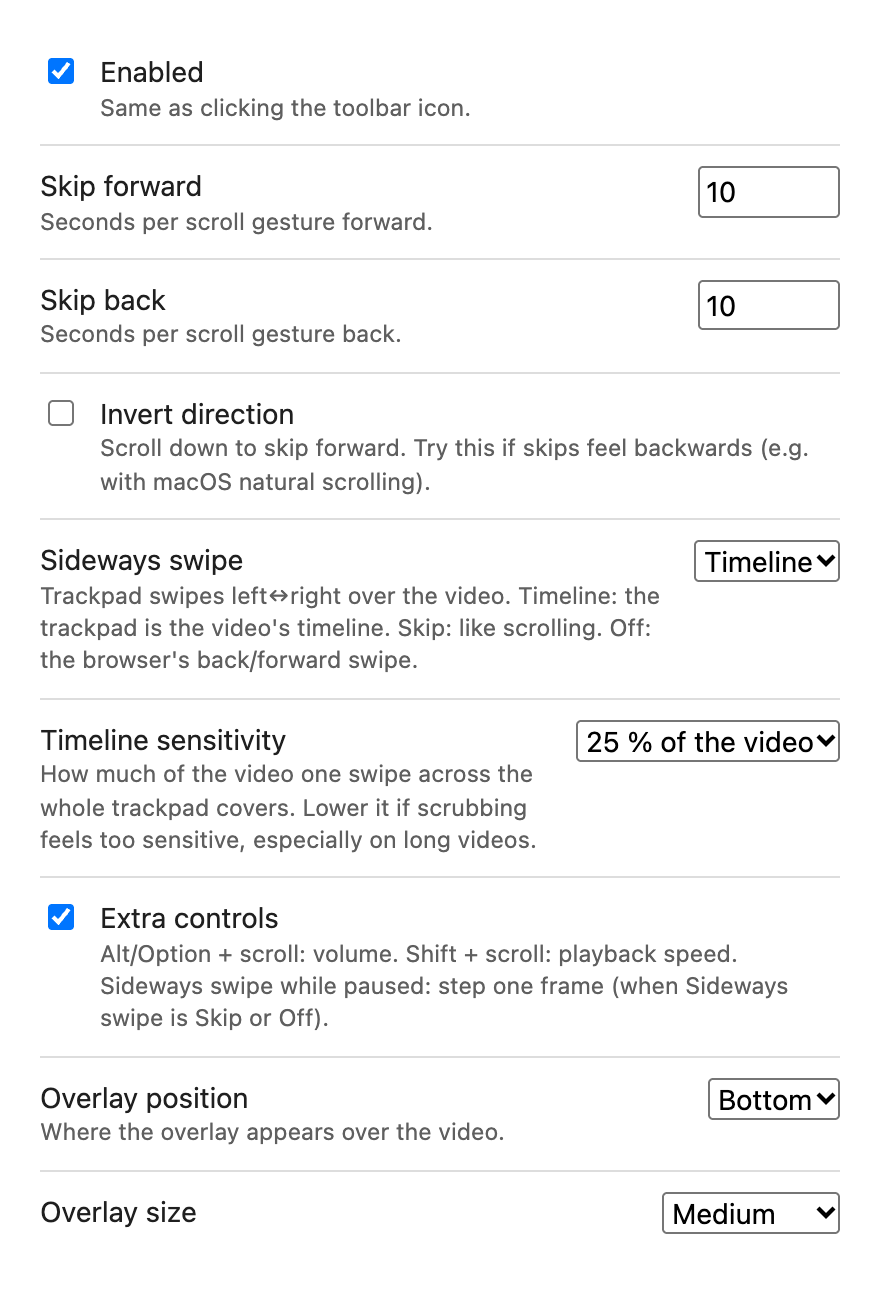
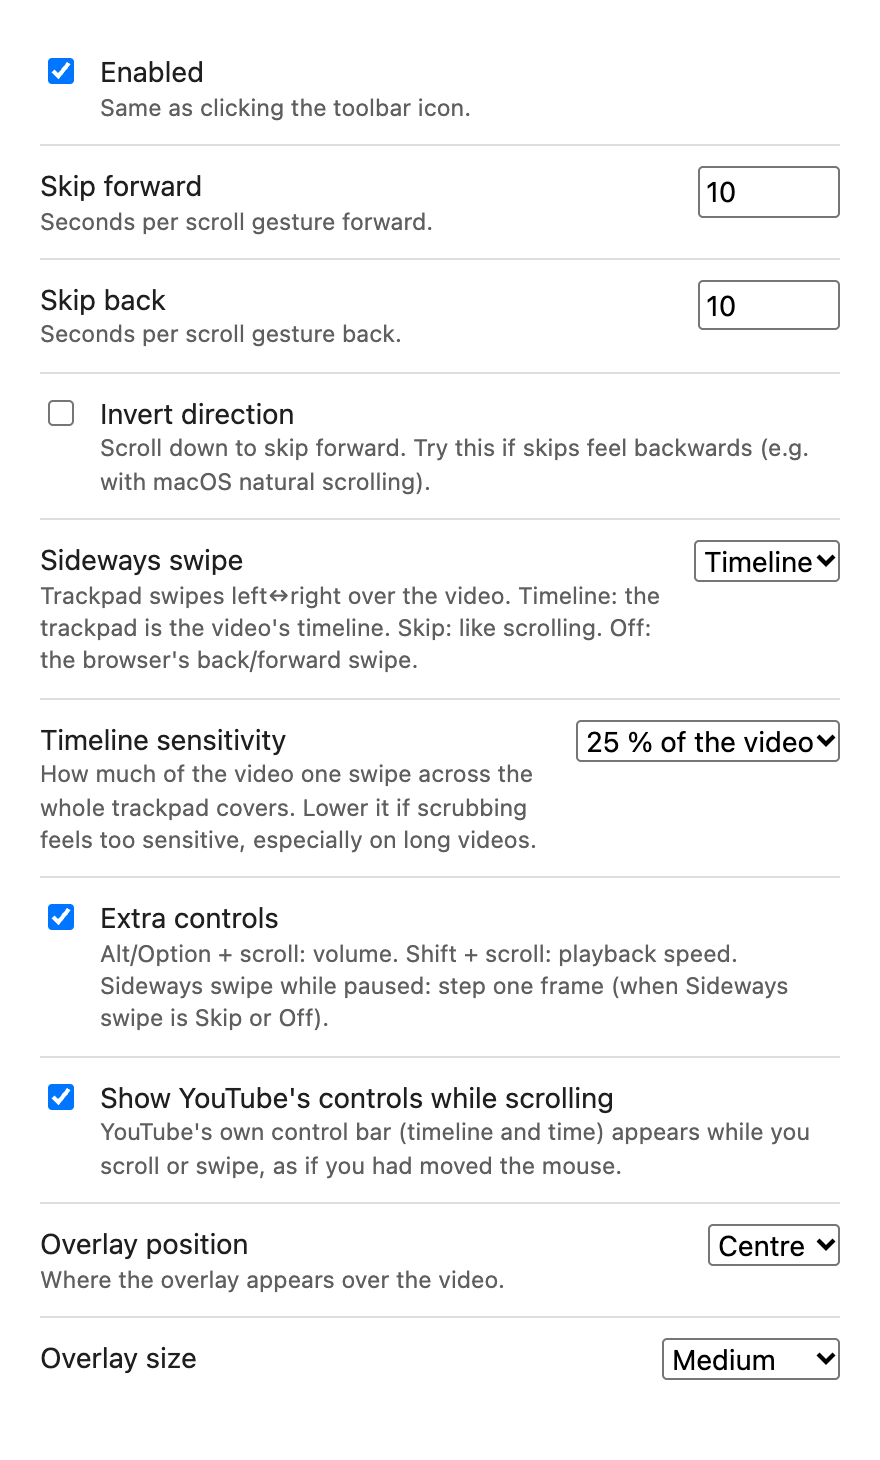
Show YouTube's own control bar while scrolling; centre the overlay
Every claimed wheel event wakes YouTube's controls with a synthetic
mousemove on the player (throttled to one per 250 ms). Verified on real
youtube.com: YouTube ignores a move to the position it last saw, so the
event alternates 1 px around the pointer; the fixture now mimics that.
New setting "Show YouTube's controls while scrolling" (showControls,
default on). The overlay defaults to the centre so it doesn't cover
YouTube's bar.

diff --git a/content.js b/content.js
@@ -28,6 +28,9 @@
   // little vertically. Two such flat events in a row of at least this size mean momentum.
   const MOMENTUM_MIN_PX = 10;
   const SEEK_INTERVAL_MS = 50; // at most one real seek per this while scrubbing
+  // YouTube shows its control bar on mousemove over the player and hides it a few seconds after
+  // the last one; wheel events don't count. Wake it at most this often while scrolling.
+  const WAKE_CONTROLS_MS = 250;
   const LINE_PX = 16; // deltaMode 1 (lines, e.g. Firefox mouse wheels)
   const PAGE_PX = 800; // deltaMode 2 (pages)
   // Overlay placement and scale, chosen on the options page.
@@ -65,6 +68,8 @@
   let seekTimer = null;
   let pendingSeek = null;
   let lastSeekAt = 0;
+  let lastWakeAt = 0;
+  let wakeNudge = 0;
   // Recent skips in one direction on one video, added up for the toast.
   let accumulated = { total: 0, direction: 0, at: 0, video: null, src: '' };
   let hideTimer = null;
@@ -87,6 +92,18 @@
     }
     if (target instanceof HTMLVideoElement) return { player: target.parentElement, video: target };
     return null;
+  }
+
+  // Show YouTube's own control bar (timeline, time) like a mouse move would. A synthetic
+  // mousemove reaches YouTube's listener from this isolated world, but YouTube ignores moves to
+  // the position it last saw (verified on youtube.com), so alternate 1 px around the pointer.
+  function wakeControls(player, x, y) {
+    if (!settings.showControls || !player) return;
+    const now = Date.now();
+    if (now - lastWakeAt < WAKE_CONTROLS_MS) return;
+    lastWakeAt = now;
+    wakeNudge = wakeNudge ? 0 : 1;
+    player.dispatchEvent(new MouseEvent('mousemove', { bubbles: true, clientX: x + wakeNudge, clientY: y }));
   }
 
   function isAdShowing(player) {
@@ -410,6 +427,7 @@
     // act, so the page never scrolls underneath.
     e.preventDefault();
     e.stopPropagation();
+    wakeControls(player, e.clientX, e.clientY);
     lastInterval = gap;
     lastWheel = now;
     if (fresh) {

diff --git a/test/fixture.html b/test/fixture.html
@@ -60,6 +60,16 @@
           'getAvailablePlaybackRates', 'setPlaybackRate']) delete player[k];
       };
     })();
+    // Like YouTube, which shows its control bar on mousemove over the player but ignores a move to
+    // the position it last saw (verified on youtube.com): count the synthetic moves that would
+    // wake the controls.
+    window.controlWakes = 0;
+    let lastMove = null;
+    document.getElementById('movie_player').addEventListener('mousemove', (e) => {
+      const moved = !lastMove || lastMove[0] !== e.clientX || lastMove[1] !== e.clientY;
+      lastMove = [e.clientX, e.clientY];
+      if (!e.isTrusted && moved) controlWakes++;
+    });
     // Record whether each wheel event ended up cancelled (read after dispatch finishes).
     window.wheelLog = [];
     window.addEventListener('wheel', (e) => setTimeout(() => wheelLog.push(e.defaultPrevented)), { capture: true });

diff --git a/options.html b/options.html
@@ -56,10 +56,14 @@
     <span>Extra controls<small>Alt/Option + scroll: volume. Shift + scroll: playback speed. Sideways swipe while paused: step one frame (when Sideways swipe is Skip or Off).</small></span>
   </label>
   <label>
+    <input type="checkbox" id="showControls">
+    <span>Show YouTube's controls while scrolling<small>YouTube's own control bar (timeline and time) appears while you scroll or swipe, as if you had moved the mouse.</small></span>
+  </label>
+  <label>
     <span>Overlay position<small>Where the overlay appears over the video.</small></span>
     <select id="toastPosition">
-      <option value="bottom">Bottom</option>
       <option value="center">Centre</option>
+      <option value="bottom">Bottom</option>
       <option value="top">Top</option>
     </select>
   </label>

diff --git a/defaults.js b/defaults.js
@@ -10,6 +10,7 @@ const YSS_DEFAULTS = Object.freeze({
   horizontalSwipe: 'timeline',
   timelineSpan: '25', // percent of the video one full trackpad swipe covers: '100' | '75' | '50' | '25' | '10'
   modifierControls: true, // Alt+scroll = volume, Shift+scroll = speed, sideways swipe while paused = frame step
-  toastPosition: 'bottom', // 'bottom' | 'center' | 'top'
-  toastSize: 'medium', // 'x-small' | 'small' | 'medium' | 'large' | 'x-large'
+  toastPosition: 'center', // 'center' | 'bottom' | 'top' (centre keeps it clear of YouTube's control bar)
+  toastSize: 'medium',
+  showControls: true, // wake YouTube's own control bar (timeline) on every scroll or swipe // 'x-small' | 'small' | 'medium' | 'large' | 'x-large'
 });

diff --git a/README.md b/README.md
@@ -8,7 +8,7 @@ A small browser extension that lets you skip forward or backward in a YouTube vi
 
 (Both lengths can be set separately.)
 
-A small panel over the player confirms each skip: how far the video actually moved in large type (`+10 s`), where you landed (`4:32 / 12:05`), and a thin progress bar. Quick repeated skips on the same video add up (`+30 s`). Near the end or start it shows the real, shorter jump, or `End` / `Start` when there's nowhere left to go. It's a translucent grey panel with a thin light border and system fonts, with no icons. Its position and size can be changed in the settings.
+A small panel over the player confirms each skip: how far the video actually moved in large type (`+10 s`), where you landed (`4:32 / 12:05`), and a thin progress bar. Quick repeated skips on the same video add up (`+30 s`). Near the end or start it shows the real, shorter jump, or `End` / `Start` when there's nowhere left to go. It's a translucent grey panel with a thin light border and system fonts, with no icons. It sits in the centre of the player by default, and its position and size can be changed in the settings. YouTube's own control bar (red timeline and time) appears at the same time, as if you had moved the mouse.
 
 ![The toast over the player after two quick forward skips: "+20 s", with "0:52 / 2:00" below](docs/toast.png)
 
@@ -34,6 +34,7 @@ A small panel over the player confirms each skip: how far the video actually mov
   - Hover previews in the feed are ignored.
   - Outside the video, two-finger back/forward swipes still navigate (or everywhere, with "Sideways swipe" set to Off).
   - Forward skips stop just before the end, so they don't trigger autoplay of the next video.
+- **YouTube's own timeline**: every scroll or swipe also wakes YouTube's control bar, so you see its timeline too (can be turned off).
 - **Accessible**: the toast is announced to screen readers (`role="status"`).
 - **Private**: the only permission is `storage` (to save your settings). No tracking and no network requests.
 
@@ -68,7 +69,8 @@ Right-click the toolbar icon → **Options** (or use the **Details → Extension
 | Sideways swipe   | Timeline | Timeline: the trackpad is the video's timeline. Skip: like scrolling. Off: the browser's back/forward swipe |
 | Timeline sensitivity | 25 % | How much of the video one swipe across the whole trackpad covers: 100 %, 75 %, 50 %, 25 % or 10 %. Lower = finer |
 | Extra controls   | on      | Alt+scroll volume, Shift+scroll speed, sideways swipe while paused for one frame |
-| Overlay position | Bottom  | Bottom, Centre or Top of the player                                  |
+| Show YouTube's controls while scrolling | on | YouTube's own control bar (timeline, time) appears while you scroll or swipe |
+| Overlay position | Centre  | Centre, Bottom or Top of the player (centre stays clear of YouTube's control bar) |
 | Overlay size     | Medium  | Extra small (0.65×), Small (0.8×), Medium, Large (1.3×) or Extra large (1.6×) |
 
 An invalid skip length (outside 1–600) is rejected and the previous value is kept. If you used 1.2.x, your old "seconds per skip" is carried over to both directions when the extension updates.

diff --git a/CLAUDE.md b/CLAUDE.md
@@ -34,8 +34,9 @@ permission is `storage`. No network, no build step for the extension itself.
   `document_idle`. The background has both `service_worker` (Chrome) and `scripts` (Firefox),
   which is deliberate. `browser_specific_settings.gecko` is for Firefox.
 - `defaults.js`: `YSS_DEFAULTS` (`enabled`, `skipForward`, `skipBack`, `invert`,
-  `horizontalSwipe`, `timelineSpan`, `modifierControls`, `toastPosition`, `toastSize`), shared
-  by `content.js` and `options.js`. Settings live in `chrome.storage.sync`. 1.2.x stored one
+  `horizontalSwipe`, `timelineSpan`, `modifierControls`, `toastPosition`, `toastSize`,
+  `showControls`), shared by `content.js` and `options.js`. Settings live in
+  `chrome.storage.sync`. 1.2.x stored one
   `skipSeconds`; `migrateSettings()` in `background.js` copies it to both lengths on update.
   Keep migrations when renaming settings.
 - `content.js`: tuning constants at the top (`GESTURE_GAP_MS`, `ACCUMULATE_MS`,
@@ -71,6 +72,11 @@ permission is `storage`. No network, no build step for the extension itself.
   speed and live), translucent grey panel, thin light-grey border, system font stack, no icons
   and no web fonts (no network). The skip toast shows the distance actually moved (`End`/`Start`
   when none), and the running total resets when the video (`currentSrc`) changes.
+- `showControls` (default on): every claimed wheel event wakes YouTube's control bar with a
+  synthetic `mousemove` on the player (`wakeControls`, at most every `WAKE_CONTROLS_MS`). YouTube
+  ignores a move to the position it last saw, so the event alternates 1 px around the pointer;
+  the fixture mimics that. Verified on real youtube.com. The overlay defaults to the centre so
+  it doesn't cover YouTube's bar.
 - The toast goes inside the player when possible; otherwise into `document.fullscreenElement`
   (fullscreen) or `body`.
 - One gesture means one action (except timeline scrubbing): a gesture ends after

diff --git a/CHANGELOG.md b/CHANGELOG.md
@@ -8,6 +8,9 @@ Releases follow the project's git tags. Entries were reconstructed from the comm
 
 ## [1.3.0] - 2026-11-02
 
+- Scrolling or swiping over the video shows YouTube's own control bar (red timeline and time) as
+  well, as if the mouse had moved ("Show YouTube's controls while scrolling", on by default). The
+  overlay now sits in the centre by default so it doesn't cover it.
 - Trackpad timeline: sideways swipes over the video scrub through it. A swipe across the whole
   trackpad covers 25 % of the video by default ("Timeline sensitivity": 100, 75, 50, 25 or 10 %), with the
   time and progress shown live. Scrubbing stops when the fingers lift (macOS momentum is
